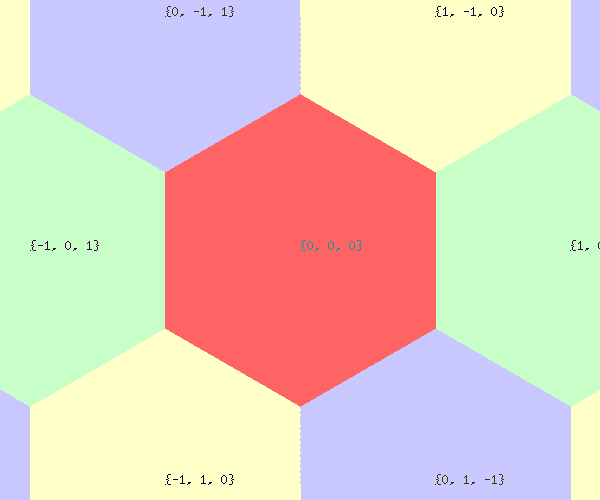
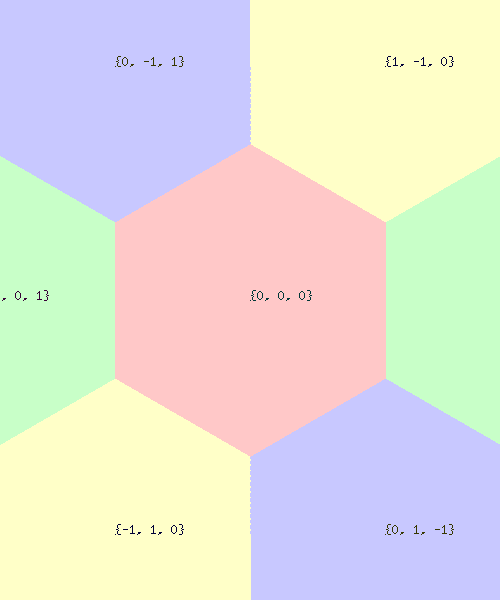
getting closer to a working biarc

diff --git a/curve/smoothPath.go b/curve/smoothPath.go
@@ -2,7 +2,7 @@ package curve
 
 import (
 	"fmt"
-	"math"
+	"math/cmplx"
 
 	"github.com/erinpentecost/hexcoord/pos"
 )
@@ -55,7 +55,7 @@ func SmoothPath(ti pos.HexFractional, te pos.HexFractional, path []pos.HexFracti
 
 	// Generate biarcs for each pair of points.
 	for i := 0; i < len(path)-1; i++ {
-		for _, b := range Biarc(path[i], tangents[i], path[i+1], tangents[i+1]) {
+		for _, b := range Biarc(path[i], tangents[i], path[i+1], tangents[i+1], 0.5) {
 			curves = append(curves, b)
 		}
 	}
@@ -74,76 +74,91 @@ func approximateTangent(p0, p1, p2 pos.HexFractional) pos.HexFractional {
 	return a.Multiply(bLen / aLen).Add(b.Multiply(aLen / bLen))
 }
 
+func findRoots(a, b, c complex128) (r1 complex128, r2 complex128) {
+	component := cmplx.Sqrt(cmplx.Pow(b, 2) - 4*a*c)
+	r1 = (-b + component) / (2 * a)
+	r2 = (-b - component) / (2 * a)
+	return
+}
+
 // Biarc returns a list of circular arcs that connect pi to pe,
 // with ti being the tangent at pi and te being the tangent at pe.
 // This algorithm was adapted from "The use of Piecewise Circular Curves in Geometric
 // Modeling" by Ulugbek Khudayarov.
-func Biarc(pi, ti, pe, te pos.HexFractional) (arcs []CircularArc) {
+func Biarc(pi, ti, pe, te pos.HexFractional, r float64) (arcs []CircularArc) {
+	if r <= 0.0 {
+		panic("r must be positive")
+	}
 	// Tangents should be unit vectors.
 	ti = ti.Normalize()
 	te = te.Normalize()
 
 	t := ti.Add(te)
 
-	v := pe.Subtract(pi)
-
-	// j is the joint point between the two arcs.
-	var j pos.HexFractional
-	// tj is the tangent at point j
-	var tj pos.HexFractional
-	// d is an intermediate discriminant value.
-	var d float64
-	// a is some intermediate constant.
-	var a float64
+	v := pi.Subtract(pe)
 
 	// This is the line segment case.
-	if closeEnough(v.Normalize().DotProduct(t), 1.0) {
+	// Start and end points are collinear with
+	// the tangents.
+	if closeEnough(v.Normalize().DotProduct(t), -1.0) {
 		return []CircularArc{
 			CircularArc{pi, ti, pe},
 		}
 	}
 
-	// Start and end tangents are parallel. (N2)
-	if closeEnough(t.Length(), 2.0) {
-		// Semicircle case. (N3)
-		// changed from t to ti. mistake in the paper
-		if closeEnough(v.DotProduct(ti), 0.0) {
-			j = pi.Add(v.Multiply(0.5))
-			tj = ti.Multiply(-1.0)
-
-			return []CircularArc{
-				CircularArc{pi, ti, j},
-				CircularArc{j, tj, pe},
-			}
+	// Special case where tangents are parallel.
+	if closeEnough(ti.DotProduct(te), 1.0) {
+		//todo
+		return []CircularArc{
+			CircularArc{pi, pe.Subtract(pi).Normalize(), pe},
 		}
-		// Calculate d from 2.6
-		vdt := v.DotProduct(t)
-		vl := v.Length()
-		tl := t.Length()
-		d = vdt*vdt + vl*vl*(4-tl*tl)
-		// Calculate a from 2.8
-		a = (vl * vl) / (4 * v.DotProduct(ti))
-
-	} else { // N4
-		// Calculate d from 2.6
-		vdt := v.DotProduct(t)
-		vl := v.Length()
-		tl := t.Length()
-		d = vdt*vdt + vl*vl*(4-tl*tl)
-		// Calculate a from 2.7
-		a = (math.Sqrt(d) - vdt) / (4.0 - tl*tl)
 	}
 
-	j = pi.Add(ti.Subtract(te).Multiply(a).Add(v).Multiply(0.5))
-	tj = v.Subtract(t.Multiply(a)).Multiply(1.0 / (2.0 * a))
-	// the second arc's tangent is not matching te!!
+	// Special case where tangents are perpendicular to start-end line
+	if closeEnough(v.DotProduct(ti.Multiply(r).Add(te)), 0.0) {
+		// todo
+		return []CircularArc{
+			CircularArc{pi, pe.Subtract(pi).Normalize(), pe},
+		}
+	}
 
-	// broken version
-	//tj = v.Subtract(t.Multiply(a)).Multiply(1.0 / (2.0 * a))
-	// dumb version
-	//_, tj, _ = CircularArc{pi, ti, j}.Curve().Sample(1.0)
-	//if !tj.AlmostEquals(tjSampled) {
-	//	panic(fmt.Sprintf("Expected %s, got %s", tj.ToString(), tjSampled.ToString()))
+	// Now find the positive root for
+	// v ⋅ v + 2 β v ⋅ ( r t s + t e ) + 2 r β 2 ( t s ⋅ t e − 1 ) = 0
+	a := v.DotProduct(v)
+	b := v.DotProduct(ti.Multiply(r).Add(te)) * 2.0
+	c := (ti.DotProduct(te) - 1.0) * 2.0 * r
+
+	r1, r2 := findRoots(complex(a, 0.0), complex(b, 0.0), complex(c, 0.0))
+
+	// Pick a positive root for β
+	var beta float64
+	if closeEnough(imag(r1), 0.0) && real(r1) >= 0.0 {
+		beta = real(r1)
+	} else if closeEnough(imag(r2), 0.0) && real(r2) >= 0.0 {
+		beta = real(r2)
+	} else {
+		panic("something terrible happened")
+	}
+
+	alpha := r * beta
+
+	// Find the control points.
+	// wti is p1w
+	wti := pi.Add(ti.Multiply(alpha))
+	// wte is p4w
+	wte := pe.Add(te.Multiply(beta * (-1.0)))
+	// todo: wti and wte need to be further scaled by
+	// w 1 = cos( α 1 ) , w 3 = cos( α 2 ) ,
+	// where α 1 and α 2 denote the half sweep angles of the
+	// first and the second arc, respectively.
+
+	// j is the joint point between the two arcs.
+	j := wti.Multiply(beta / (alpha + beta)).Add(wte.Multiply(alpha / (alpha + beta)))
+	// tj is the tangent at point j
+	tj := wte.Subtract(wti).Normalize()
+	//_, c1t, _ := CircularArc{pi, ti, j}.Curve().Sample(1.0)
+	//if !c1t.AlmostEquals(tj) {
+	//	panic("not G0 connected")
 	//}
 
 	return []CircularArc{

diff --git a/example/drawPath_test.go b/example/drawPath_test.go
@@ -12,6 +12,17 @@ import (
 	"github.com/stretchr/testify/assert"
 )
 
+func getColor(c curve.Curver) color.RGBA {
+	switch c.Spin() {
+	case curve.Clockwise:
+		return color.RGBA{0, 0, 222, 255}
+	case curve.CounterClockwise:
+		return color.RGBA{222, 0, 0, 255}
+	default:
+		return color.RGBA{0, 0, 0, 255}
+	}
+}
+
 func TestSmoothCurveDrawing(t *testing.T) {
 	ti := pos.HexFractional{Q: 1, R: -1}.Normalize()
 	te := pos.HexFractional{Q: -1, R: 1}.Normalize()
@@ -28,21 +39,10 @@ func TestSmoothCurveDrawing(t *testing.T) {
 	smoothArcs := curve.SmoothPath(ti, te, path)
 
 	dd := draw.DefaultDecorator{}
-	img := image.NewRGBA(image.Rect(0, 0, 500, 600))
-	cc := draw.NewCamera(img, 0.15, pos.Hex{Q: 1, R: 0})
+	img := image.NewRGBA(image.Rect(0, 0, 600, 600))
+	cc := draw.NewCamera(img, 0.06, pos.Hex{Q: 1, R: 0})
 
 	cc.Grid(dd)
-
-	getColor := func(c curve.Curver) color.RGBA {
-		switch c.Spin() {
-		case curve.Clockwise:
-			return color.RGBA{0, 0, 222, 255}
-		case curve.CounterClockwise:
-			return color.RGBA{222, 0, 0, 255}
-		default:
-			return color.RGBA{0, 0, 0, 255}
-		}
-	}
 
 	// Draw arcs.
 	for _, arc := range smoothArcs {
@@ -56,10 +56,33 @@ func TestSmoothCurveDrawing(t *testing.T) {
 
 }
 
+func TestBiarcDrawing(t *testing.T) {
+	dd := draw.DefaultDecorator{}
+	img := image.NewRGBA(image.Rect(0, 0, 500, 500))
+	cc := draw.NewCamera(img, 0.1, pos.Origin())
+
+	cc.Grid(dd)
+
+	b := curve.Biarc(
+		pos.HexFractional{Q: -1.0, R: 0.0},
+		pos.HexFractional{Q: 1.0, R: -2.0},
+		pos.HexFractional{Q: 1.0, R: 0.0},
+		pos.HexFractional{Q: 1.0, R: 0.0},
+		1.0)
+	for _, arc := range b {
+		c := arc.Curve()
+		cc.Curve(getColor(c), c)
+	}
+
+	fpath, err := draw.Save(img, "TestBiarcDrawing.png")
+	assert.NoError(t, err, fpath)
+	fmt.Println(fpath)
+}
+
 func TestHappyFaceDrawing(t *testing.T) {
 
 	dd := draw.DefaultDecorator{}
-	img := image.NewRGBA(image.Rect(0, 0, 500, 600))
+	img := image.NewRGBA(image.Rect(0, 0, 500, 500))
 	cc := draw.NewCamera(img, 0.1, pos.Hex{Q: 1, R: 0})
 
 	cc.Grid(dd)
@@ -85,16 +108,6 @@ func TestHappyFaceDrawing(t *testing.T) {
 		E: pos.HexFractional{Q: 3, R: -1},
 	}.Curve()
 
-	getColor := func(c curve.Curver) color.RGBA {
-		switch c.Spin() {
-		case curve.Clockwise:
-			return color.RGBA{0, 0, 222, 255}
-		case curve.CounterClockwise:
-			return color.RGBA{222, 0, 0, 255}
-		default:
-			return color.RGBA{0, 0, 0, 255}
-		}
-	}
 	cc.Curve(getColor(clockwiseArc), clockwiseArc)
 	cc.Curve(getColor(counterclockwiseArc), counterclockwiseArc)
 	cc.Curve(getColor(lineArc), lineArc)
